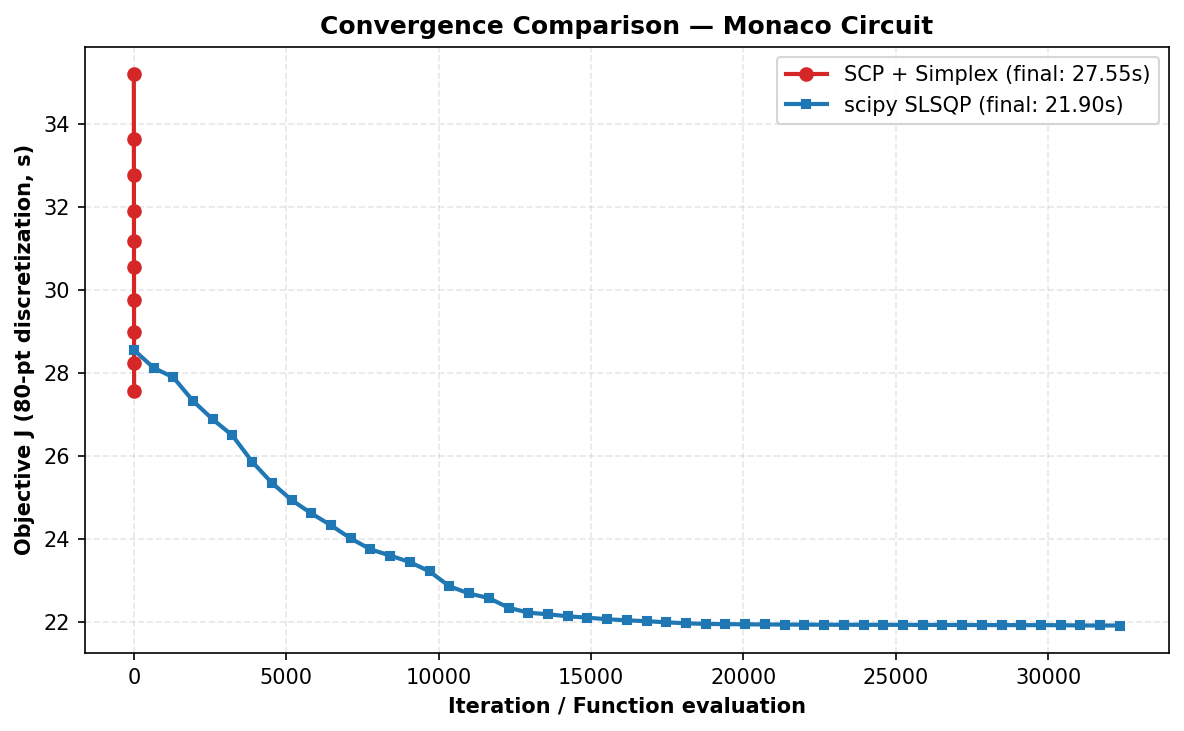
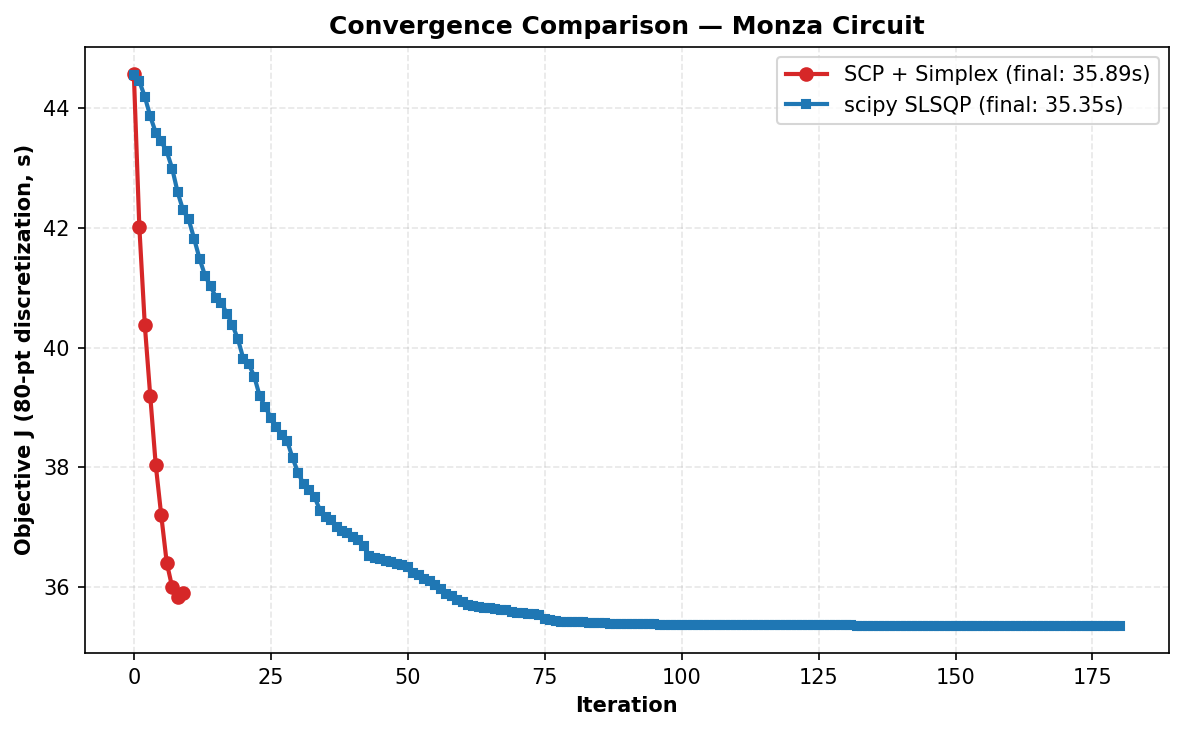
Use Monza circuit for convergence figure, fair same-start comparison
- Switch TRACK to monza: scipy converges (success=True, 181 iters) unlike
  Monaco where it hits the 200-iter limit without converging
- Both methods now start from the same warm-start alpha (curvature-minimized)
  for a fair apples-to-apples comparison
- Track scipy J per iteration (callback) not per function eval, so both
  curves share the same x-axis scale (10 vs 181 iterations)
- Result: SCP reaches near-optimal J in 10 iters, scipy needs 181 to go
  marginally further (35.9s vs 35.35s)

diff --git a/src/single lap/run_analysis.py b/src/single lap/run_analysis.py
@@ -20,7 +20,7 @@ from car import CarParams
 from optimizer import (alpha_to_raceline, compute_curvature_from_path,
                        compute_velocity_profile, solve_scp)
 
-TRACK = "monaco"
+TRACK = "monza"
 N_STATIONS = 80   # SCP working resolution
 FIG_DIR = os.path.join(os.path.dirname(os.path.dirname(os.path.dirname(os.path.abspath(__file__)))), "figures")
 os.makedirs(FIG_DIR, exist_ok=True)
@@ -55,7 +55,7 @@ def run_vanilla_scp(trk):
     kappa = compute_curvature_from_path(rl)
     ds = np.linalg.norm(np.diff(rl, axis=0, append=rl[0:1]), axis=1)
 
-    return alpha, v, hist, rl, kappa, ds, centerline, normals, widths, car
+    return alpha, v, hist, rl, kappa, ds, centerline, normals, widths, car, alpha0
 
 
 def run_scipy_comparison(centerline, normals, widths, car, alpha0_scp):
@@ -72,9 +72,14 @@ def run_scipy_comparison(centerline, normals, widths, car, alpha0_scp):
         v = x[n:]
         path = alpha_to_raceline(alpha, centerline, normals)
         ds = np.linalg.norm(np.diff(path, axis=0, append=path[0:1]), axis=1)
-        T = np.sum(ds / np.maximum(v, 0.5))
-        history_scipy.append(T)
-        return T
+        return float(np.sum(ds / np.maximum(v, 0.5)))
+
+    def scipy_iter_callback(x):
+        alpha = x[:n]
+        v = x[n:]
+        path = alpha_to_raceline(alpha, centerline, normals)
+        ds = np.linalg.norm(np.diff(path, axis=0, append=path[0:1]), axis=1)
+        history_scipy.append(float(np.sum(ds / np.maximum(v, 0.5))))
 
     v0 = compute_velocity_profile(
         alpha_to_raceline(alpha0_scp, centerline, normals),
@@ -119,7 +124,7 @@ def run_scipy_comparison(centerline, normals, widths, car, alpha0_scp):
 
     t0 = time.time()
     res = scipy_minimize(joint_time_obj, x0, method='SLSQP', bounds=bounds_all,
-                         constraints=constraints,
+                         constraints=constraints, callback=scipy_iter_callback,
                          options={'maxiter': 200, 'ftol': 1e-10, 'disp': True})
     dt = time.time() - t0
     print(f"  scipy SLSQP: J={res.fun:.2f}s  iters={res.nit}  time={dt:.1f}s  success={res.success}")
@@ -134,14 +139,11 @@ def plot_convergence(scp_hist, scipy_hist, save_path):
     ax.plot(range(len(scp_hist)), scp_hist, 'o-', color='#d62728', lw=2, ms=6,
             label=f'SCP + Simplex (final: {scp_hist[-1]:.2f}s)')
 
-    n_scipy = len(scipy_hist)
-    if n_scipy > 0:
-        step = max(1, n_scipy // 50)
-        idx = list(range(0, n_scipy, step))
-        ax.plot(idx, [scipy_hist[i] for i in idx], 's-', color='#1f77b4', lw=2, ms=4,
+    if len(scipy_hist) > 0:
+        ax.plot(range(len(scipy_hist)), scipy_hist, 's-', color='#1f77b4', lw=2, ms=4,
                 label=f'scipy SLSQP (final: {scipy_hist[-1]:.2f}s)')
 
-    ax.set_xlabel('Iteration / Function evaluation', fontweight='bold')
+    ax.set_xlabel('Iteration', fontweight='bold')
     ax.set_ylabel(f'Objective J ({N_STATIONS}-pt discretization, s)', fontweight='bold')
     ax.set_title(f'Convergence Comparison — {TRACK.capitalize()} Circuit', fontweight='bold')
     ax.legend(fontsize=10)
@@ -160,8 +162,8 @@ def main():
     trk = get_track(TRACK)
     print(f"Track: {trk.name} | {trk.length:.0f}m | {len(trk.centerline)} pts\n")
 
-    alpha, v, hist, rl, kappa, ds, cl, normals, widths, car = run_vanilla_scp(trk)
-    scipy_hist, scipy_res = run_scipy_comparison(cl, normals, widths, car, alpha)
+    alpha, v, hist, rl, kappa, ds, cl, normals, widths, car, alpha0 = run_vanilla_scp(trk)
+    scipy_hist, scipy_res = run_scipy_comparison(cl, normals, widths, car, alpha0)
 
     print("\n[3] Generating figures...")
     plot_convergence(hist, scipy_hist, os.path.join(FIG_DIR, 'convergence_scp_vs_scipy.png'))